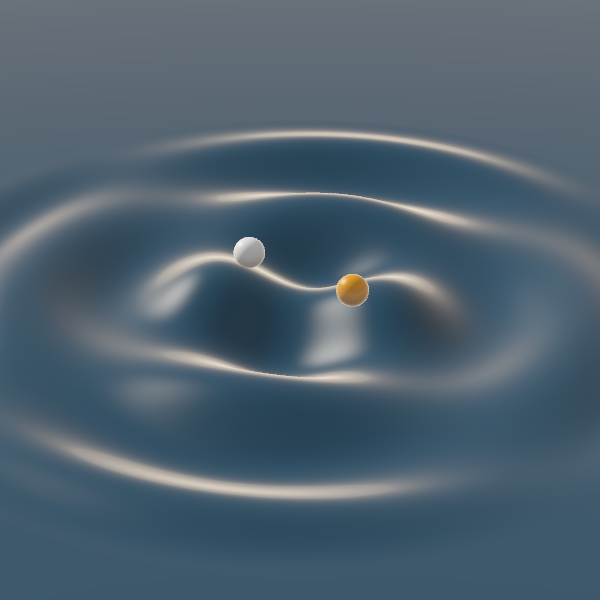
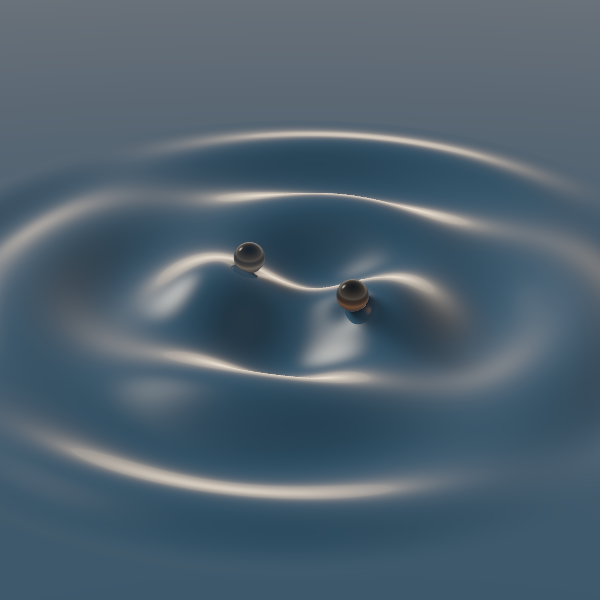
docs: glass droplets in the README and refreshed stills

Changed region(s): [[0.54, 0.45, 0.63, 0.57], [0.39, 0.39, 0.45, 0.48]]

diff --git a/README.md b/README.md
@@ -78,10 +78,17 @@ built into the waves themselves. The droplet bounces off the rim.
 
 `topdown.rs` paints the field through matplotlib's coolwarm colormap
 with droplets and trails on top. `oblique.rs` renders the field as a
-lit liquid surface: one ray per pixel is marched to the heightfield,
-shaded with a key light, a soft fill and a Fresnel reflection of a
-gradient sky, with the droplets as small spheres. Colormaps are
-tables sampled from matplotlib by `tools/colormaps.py`.
+lit liquid surface: rays are marched to the heightfield and shaded
+with a key light, a soft fill and a Fresnel reflection of a gradient
+sky. The droplets (`oblique/droplet.rs`) are beads of silicone oil
+resting on the bath: light refracts through them, so they show the
+scene behind them upside down, dark on top with the bright horizon
+at the bottom; they reflect in the surface beneath them, sink into a
+small dimple, darken the contact zone and cast a soft shadow. Stills
+use four rays per pixel, the live view one. Colormaps are tables
+sampled from matplotlib by `tools/colormaps.py`.
+
+![The corral seen obliquely](images/corral_oblique.png)
 
 ## What to look for
 
